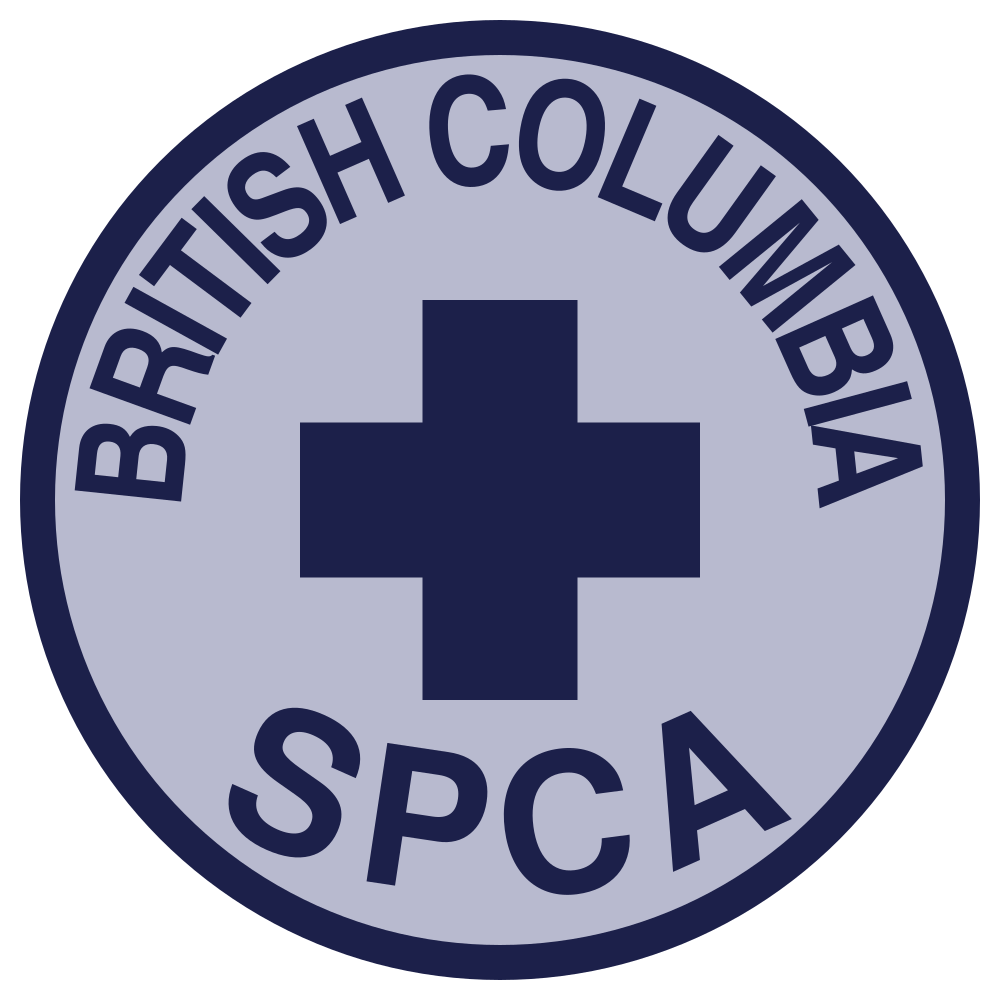
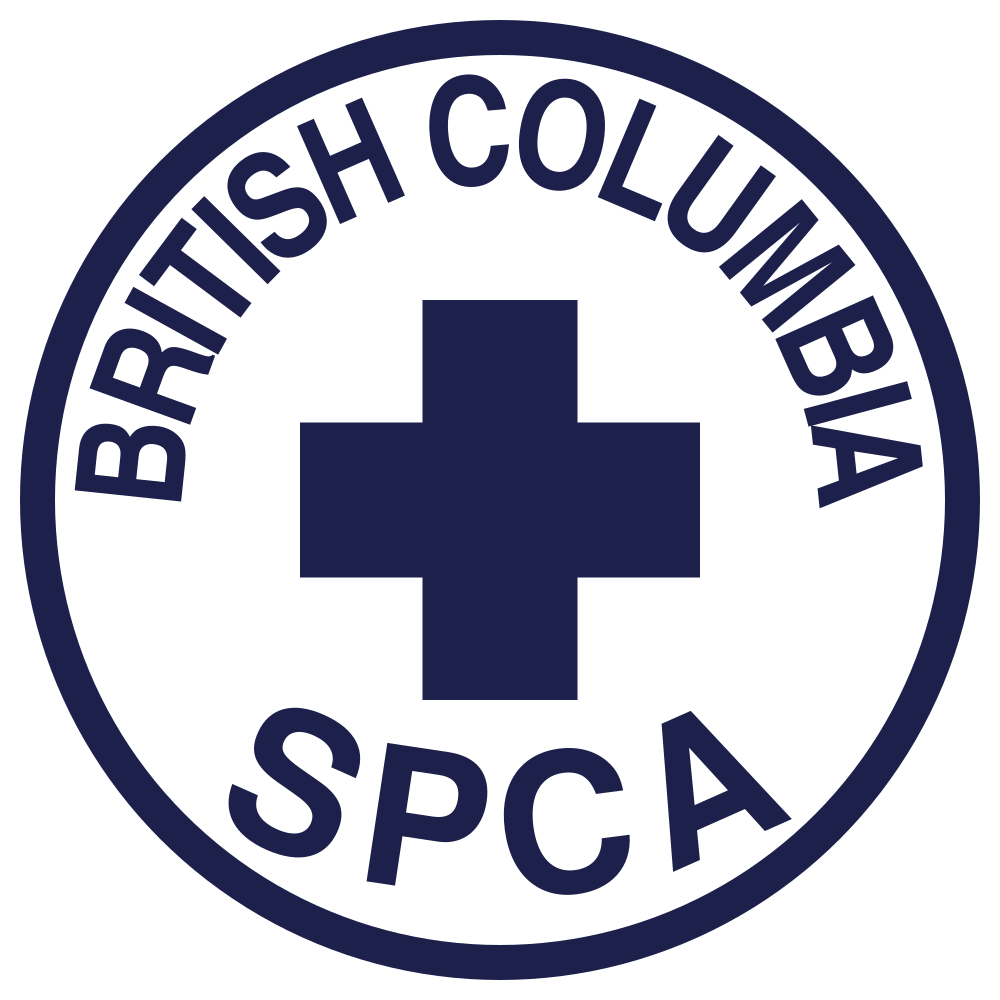
Correct the SPCA cloth field to pure white
Use #ffffff for the field, as confirmed by the user. The blue-grey cast in the reference photograph is lighting, not the patch colour. Regenerate the SVGs, PNG, thumbnails, comparison and manifest, and document the correction.

All 168 source/hash checks pass; the rendered field is opaque RGB 255,255,255.

diff --git a/library/supplied/bc-spca-roundel/README.md b/library/supplied/bc-spca-roundel/README.md
@@ -3,7 +3,8 @@
 Geometric reconstruction fitted to the **66 × 55 pixel photograph supplied on 22 October 2026**.
 The supplied image is retained unchanged as `source/reference.jpeg`. Its small size supports the
 composition and approximate proportions, but cannot establish the original typeface, calibrated
-thread colours, exact stitch detail or physical dimensions.
+navy thread colour, exact stitch detail or physical dimensions. The user confirmed that the cloth
+field is **pure white**: the blue-grey cast in the photograph is lighting, not a design colour.
 
 ![Reference, previous reconstruction and revised drawing](S56-O38-comparison.png)
 
@@ -17,7 +18,7 @@ All dimensions below are drawing units on a 100 × 100 canvas, not millimetres.
 | Cross | One closed equal-arm polygon, 40 × 40 overall, 15.5-unit bars, centred at (50, 50) | The previous 12-unit bars were too thin; the square cross also puts its top closer to the reference |
 | BRITISH COLUMBIA | 10.7-unit capitals on a radius-31.7 upper baseline; first/last letter centres at −84°/+84° | Taller lettering, extending farther down both sides than the earlier approximately ±71° layout |
 | SPCA | 14-unit capitals on a radius-57 lower baseline, with its bottom at y = 89.5; outer letters rotated ±24° | A wider, shallower word, replacing the earlier roughly +41°/−47° end rotations |
-| Colours | Navy `#1c204a`; cool grey `#b8bacf` | A flat interpretation of the photographed cloth and ink, replacing the warm cream field |
+| Colours | Navy `#1c204a`; pure white `#ffffff` | White cloth as confirmed by the user; the photograph's lighting cast is omitted. Navy remains an approximate flat thread colour. |
 
 The letters reuse the atlas reconstruction's **substitute glyph outlines**, individually resized,
 spaced by their advances and rotated along the new arcs. This is not a recovered historical font.
